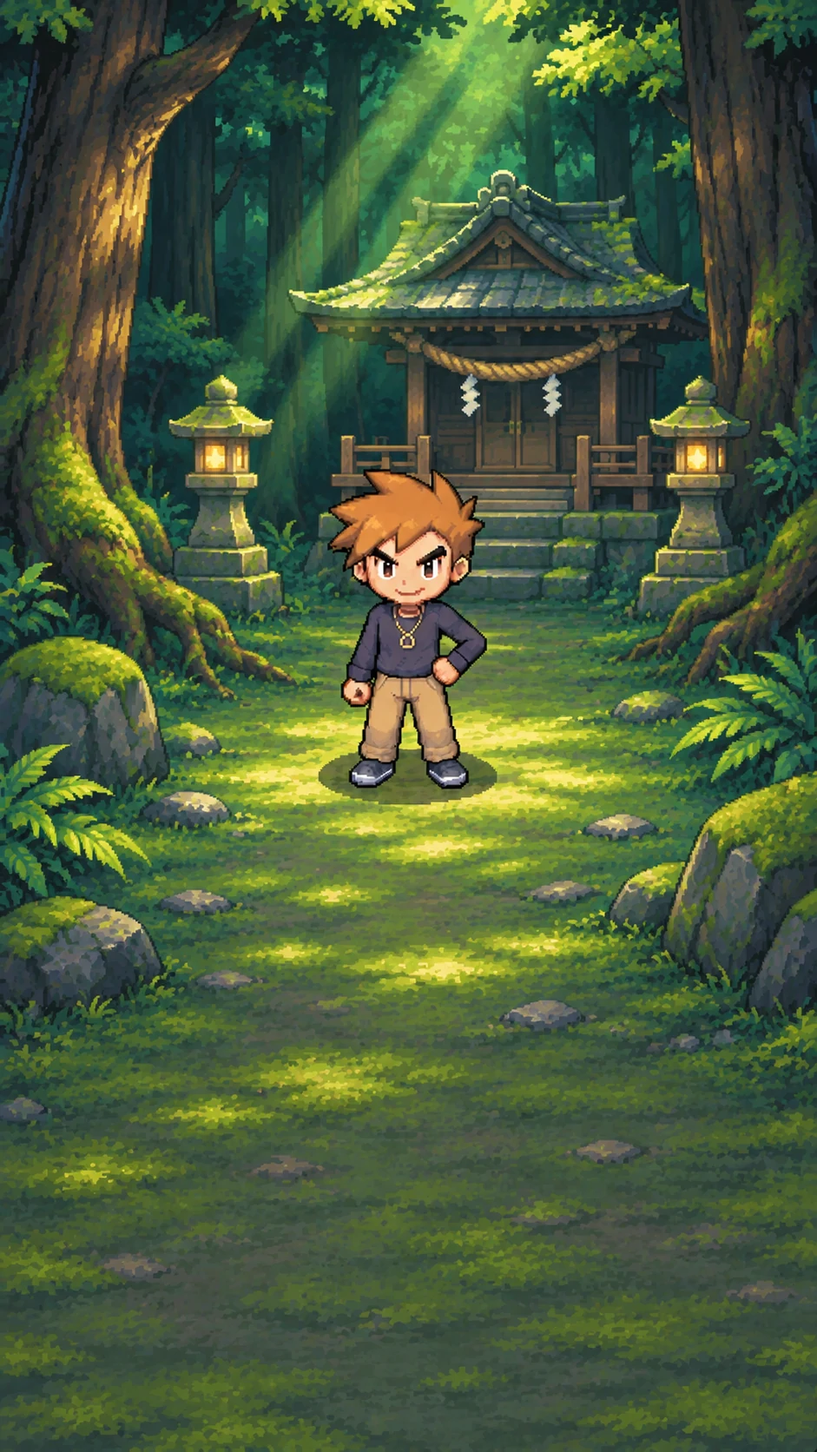
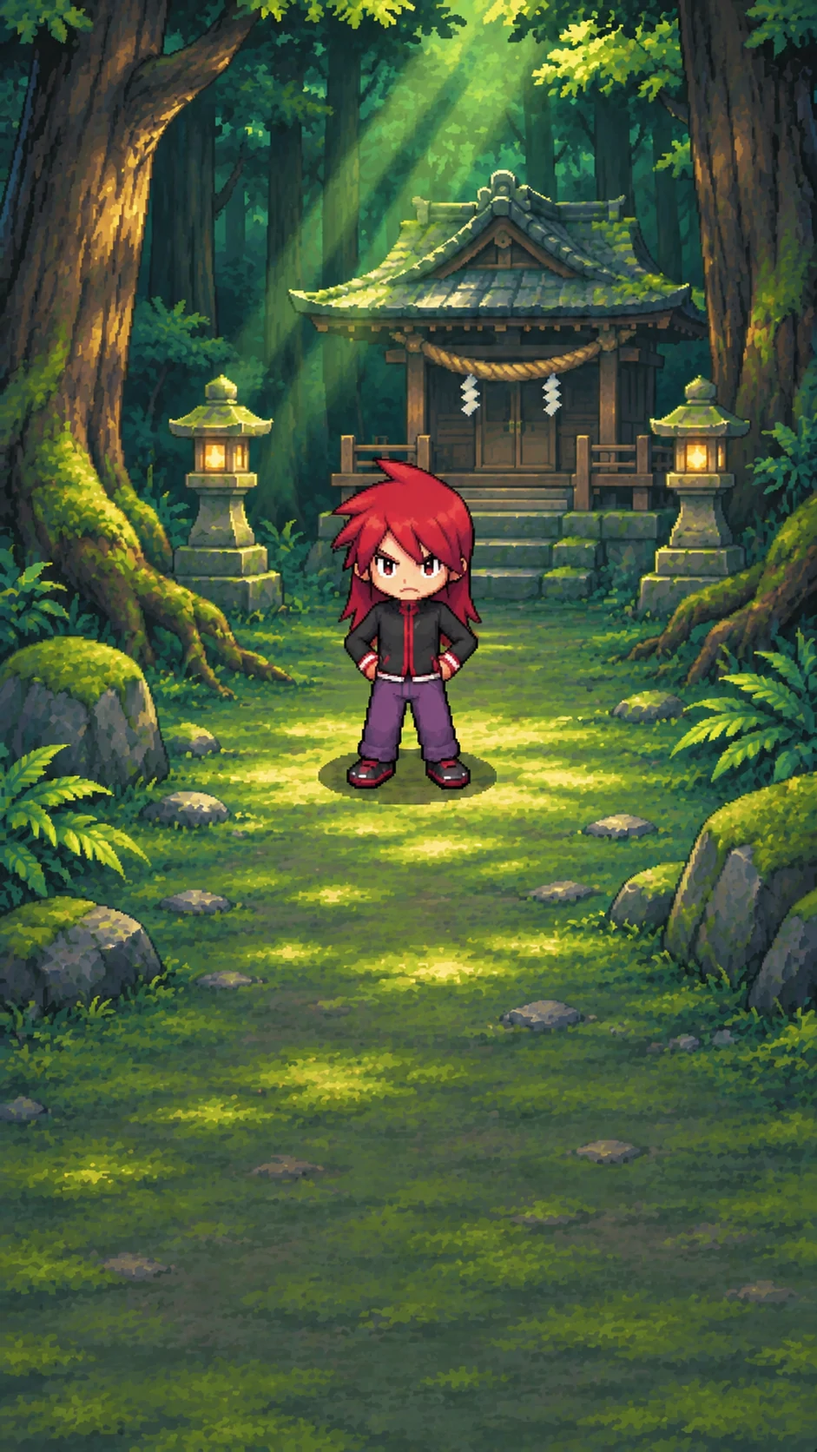
Un rival par région : Silver à Johto, avec sa voix et ses 4 images ; Régis reste à Kanto

diff --git a/pokemon_ui.html b/pokemon_ui.html
@@ -2987,7 +2987,7 @@ function scenePokedex() {
     fermer();
   })().catch(() => {});
 }
-// --- Régis, le rival (Kiki, 05/11 : détestable) : 4 rencontres par région, une fois chacune, en atteignant le lieu. Le texte vient de rival.py, avec les pires chiffres de la semaine.
+// --- Le rival (Kiki, 05/11 : un par région, chacun sa voix, tous moqueurs) : 4 rencontres par région, une fois chacune, en atteignant le lieu. Le texte vient de rival.py, avec les pires chiffres de la semaine.
 const rivalVu = r => { try { return localStorage.getItem(`pkm_rival_${R.partie}_${r.image}`) === "1"; } catch (e) { return true; } };
 function rivalDu() {  // la dernière rencontre atteinte, pas encore vue ; celles d'avant sont passées (on ne les enchaîne pas)
   const l = (D.rival || []).filter(r => r.lignes && r.dist <= V.pos && !rivalVu(r));
@@ -2997,7 +2997,7 @@ function rivalDu() {  // la dernière rencontre atteinte, pas encore vue ; celle
 function sceneRival(r, essai = false) {
   if (!essai) try { localStorage.setItem(`pkm_rival_${R.partie}_${r.image}`, "1"); } catch (e) {}
   preparerScene();
-  const {v, fin: finE} = ecran("pkm-rival", `${r.image}.webp`, 941, 1672, ""), DR = dialogue(v), qui = "Régis";
+  const {v, fin: finE} = ecran("pkm-rival", `${r.image}.webp`, 941, 1672, ""), DR = dialogue(v), qui = r.nom || "Régis";
   const lignes = (r.lignes || ["Pas assez de jours pour me moquer de toi. Reviens quand ta montre aura quelque chose à raconter."]).map(l => l.replace("{nom}", nomDresseur()));
   DR.prevoir(lignes.map(l => [l, qui]));
   let fini = false;
@@ -5581,7 +5581,7 @@ function dessinerTests() {
   document.getElementById("tests").innerHTML = `
     <div class="groupe">Le passage vers Johto<small>Le Carnet, le générique et l'appel du Professeur Chen ; puis, le lendemain, le voyage, le titre de Johto et le labo d'Orme. Rien n'est enregistré.</small></div>
     <div class="boutons-t">${b("t-passage", `${ico("tele", "p")} La fin de Kanto`)}${b("t-voyage-r", `${ico("carte", "p")} L'arrivée à Johto`)}${b("t-johto", `${ico("carte", "p")} ${EN_JOHTO ? "Revenir à la vraie partie" : "Voir Johto (champions, carte, décors)"}`)}</div>
-    <div class="groupe">Régis, le rival<small>Ses 4 rencontres de la région, avec tes vrais chiffres de la semaine.</small></div>
+    <div class="groupe">Le rival de la région<small>Ses 4 rencontres de la région, avec tes vrais chiffres de la semaine.</small></div>
     <div class="boutons-t">${(D.rival || []).map((r, i) => b(`t-rival" data-i="${i}`, r.lieu)).join("")}</div>
     <div class="groupe">Les petites scènes<small>Entrées d'arène, sanctuaires, histoires, anniversaire : aperçus, sans rien d'enregistré.</small></div>
     <div class="boutons-t">${[1, 2, 3, 4, 5, 6, 7, 8, 9].map(n => b(`t-entree" data-n="${n}`, `Entrée : ${n === 9 ? "Ligue" : CHAMPIONS[n].nom}`)).join("")}</div>

diff --git a/rival.py b/rival.py
@@ -1,8 +1,10 @@
-"""Régis, le rival : détestable, voulu par Kiki (05/11, trois potes de 40 ans). Il croise le joueur 4 fois par région et met le doigt sur ses chiffres
-les moins flatteurs de la semaine. Montré au joueur concerné seulement ; jamais le poids. Ni jeu ni points ici : que du texte, calculé sur les derniers jours
-(`etat["derniers"]`). Un jour sans pas = montre oubliée : il ne compte pas, on ne se moque pas d'une panne. Pas de vanne sur le sport tant que le joueur n'a
-jamais eu une seule minute de sport : sa montre ne les mesure peut-être pas (Kiki, 05/11). Cœur et masse grasse (Kiki, 05/11) : des repères pour rire, pas un diagnostic ;
-la masse grasse ne se juge qu'avec l'âge et le sexe du téléphone, sinon seulement sa hausse ; jamais le poids."""
+"""Le rival : un par région (Kiki, 05/11), le vrai rival de la génération, avec sa personnalité des jeux ; toujours moqueur (trois potes de 40 ans). Il croise le joueur 4 fois
+par région et met le doigt sur ses chiffres les moins flatteurs de la semaine. Montré au joueur concerné seulement ; jamais le poids. Ni jeu ni points ici : que du texte,
+calculé sur les derniers jours (`etat["derniers"]`). Un jour sans pas = montre oubliée : il ne compte pas, on ne se moque pas d'une panne. Pas de vanne sur le sport tant que
+le joueur n'a jamais eu une seule minute de sport : sa montre ne les mesure peut-être pas (Kiki, 05/11). Cœur et masse grasse (Kiki, 05/11) : des repères pour rire, pas un
+diagnostic ; la masse grasse ne se juge qu'avec l'âge et le sexe du téléphone, sinon seulement sa hausse ; jamais le poids.
+Régis (Kanto) : le moqueur de base. Silver (Johto) : roux, sombre, agressif, ne pense qu'à la puissance et à la victoire, ne plaisante jamais ; a volé son Pokémon chez Orme ;
+fils de Giovanni, dit seulement à la dernière rencontre. Une région sans voix ici n'a pas encore été construite (Flora, à Hoenn : amicale, moquerie gentille)."""
 import datetime as dt
 import random
 
@@ -11,18 +13,66 @@ import chiffres
 import regions
 
 JOURS = ["lundi", "mardi", "mercredi", "jeudi", "vendredi", "samedi", "dimanche"]
-ACCROCHES = {
-    "rival-k1-route": "Tiens, {nom}. Moi, c'est Régis. Je voulais voir à quoi ressemble quelqu'un qui marche aussi peu.",
-    "rival-k2-pont": "Personne ne passe sur ce pont sans que je lui lise ses chiffres. J'ai les tiens. Accroche-toi à la rambarde.",
-    "rival-k3-navire": "Je pars en croisière, moi. Toi, c'est un canot de sauvetage qu'il te faudrait. J'ai regardé ta semaine.",
-    "rival-k4-victoire": "Tu comptes vraiment aller à la Ligue ? Avec ces chiffres-là ?",
-    "rival-j1-mauville": "{nom} ! Tu en as mis, du temps. Ta montre m'a tout raconté.",
-    "rival-j2-bois": "Perdu dans les bois ? Normal : à ton rythme, même les Chenipan te doublent.",
-    "rival-j3-rosalia": "Ici, on vénère les anciens. Ça tombe bien, je pensais justement à toi.",
-    "rival-j4-antre": "Je t'attendais plus tôt. J'ai eu le temps de lire ta semaine : ça n'a pas été long.",
+VOIX = {
+    "k": {
+        "nom": "Régis",
+        "accroches": {
+            "rival-k1-route": "Tiens, {nom}. Moi, c'est Régis. Je voulais voir à quoi ressemble quelqu'un qui marche aussi peu.",
+            "rival-k2-pont": "Personne ne passe sur ce pont sans que je lui lise ses chiffres. J'ai les tiens. Accroche-toi à la rambarde.",
+            "rival-k3-navire": "Je pars en croisière, moi. Toi, c'est un canot de sauvetage qu'il te faudrait. J'ai regardé ta semaine.",
+            "rival-k4-victoire": "Tu comptes vraiment aller à la Ligue ? Avec ces chiffres-là ?",
+        },
+        "sorties": ["Allez, file. Je te garde une place, derrière moi.", "Ne me remercie pas. Remercie plutôt ton canapé, il a enfin de la compagnie.",
+                    "Bon, j'y vais. Moi, j'ai des choses à faire. En marchant.", "Essaie de faire mieux. Enfin, essaie de faire quelque chose."],
+        "vante": "Moi, ma journée de repos, c'est {lui} pas.",
+        "textes": {
+            "pire": ["{Jour} : {pas} pas. Même ton facteur en fait plus rien que pour aller à ta boîte aux lettres.", "{pas} pas, {jour}. Tu t'es levé, au moins, ou c'est ta montre qui est tombée du lit ?"],
+            "moyenne": ["{moy} pas par jour en moyenne. Mon Ronflex fait mieux en dormant.", "{moy} pas de moyenne. Tu marches, ou tu fais juste le tour du canapé ?"],
+            "baisse": ["{baisse} % de pas en moins que la semaine d'avant. Continue, tu finiras bien par atteindre zéro.", "La semaine d'avant, tu marchais {baisse} % de plus. C'était le bon temps, hein, papy ?"],
+            "sport0": ["Zéro minute de sport en {n} jours. Même pas par accident. Chapeau.", "{n} jours, zéro minute de sport. Ton cœur doit se demander si tu es encore là."],
+            "sport": ["{sport} minutes de sport en {n} jours. C'était quoi, courir après le bus ?", "{sans} jours sans une seule minute de sport sur {n}. Et les autres jours, tu as couru après quoi, le bus ?"],
+            "sommeil": ["{nuit} de sommeil en moyenne. Et après, tu t'étonnes d'avoir cette tête.", "Ta nuit la plus courte : {courte}. Je ne te dis pas comme ça se voit."],
+            "coeur": ["{fc} battements par minute au repos. Au repos ! Ton cœur a 70 ans, et il aimerait bien s'asseoir.", "{fc} au repos. J'ai vu des grands-pères plus détendus en montant un escalier."],
+            "vfc": ["Récupération : {vfc} ms. Sur ta montre, tu as un cœur de 70 ans. Tu veux que je t'aide à traverser ?"],
+            "gras": ["{gras} % de masse grasse. Tu stockes pour l'hiver, ou tu comptes hiberner avec Ronflex ?", "{gras} % de masse grasse d'après ta balance. Elle a dû te dire ça avec tact. Pas moi."],
+            "hausse": ["+{hausse} point de masse grasse en deux semaines. Enfin quelque chose qui progresse chez toi."],
+            "muscu": ["Zéro pompe, zéro traction, zéro squat de la semaine. Tes bras, ils servent à porter la télécommande ?"],
+            "fort": ["{moy} pas de moyenne, bravo. Tu fuis quelqu'un, ou c'est que personne ne t'attend à la maison ?", "{moy} pas par jour. Pas mal, pour ton âge."],
+        },
+    },
+    "j": {
+        "nom": "Silver",
+        "accroches": {
+            "rival-j1-mauville": "Toi, {nom}. Je m'appelle Silver. Mon Pokémon, je l'ai pris chez Orme sans demander. Le tien, tu ne le mérites pas. J'ai vu ta semaine.",
+            "rival-j2-bois": "Tu traînes dans les bois ? Ici, les faibles se perdent. Et personne ne vient les chercher.",
+            "rival-j3-rosalia": "Les gens d'ici prient les anciens. Moi, je ne crois qu'à la puissance. Et toi, tu n'en as aucune.",
+            "rival-j4-antre": ["Tu arrives encore à marcher jusqu'ici ? J'ai lu ta semaine.",
+                               "Giovanni, le chef de la Team Rocket, c'est mon père. Il a perdu une fois, et il a tout abandonné. Je ne serai jamais comme lui. Ni comme toi."],
+        },
+        "sorties": ["Dégage. Tu me fais perdre mon temps.", "La prochaine fois, montre-moi au moins quelque chose.",
+                    "Ne te retourne pas. Personne ne t'attend.", "Reviens quand tu auras de la force. Donc, ne reviens pas."],
+        "vante": "Moi, les jours où je me repose, c'est {lui} pas. Et je déteste me reposer.",
+        "textes": {
+            "pire": ["{Jour} : {pas} pas. Même pas assez pour qu'on te remarque.", "{pas} pas, {jour}. Un Pokémon sauvage aurait pitié de toi. Pas moi."],
+            "moyenne": ["{moy} pas par jour. C'est ça, ta force ? Je déteste perdre mon temps.", "{moy} pas de moyenne. Les gens comme toi restent en bas. Et c'est très bien."],
+            "baisse": ["{baisse} % de pas en moins qu'avant. Tu recules. Les faibles reculent toujours.", "{baisse} % de moins en une semaine. Tu abandonnes déjà ? Je m'en doutais."],
+            "sport0": ["Zéro minute de sport en {n} jours. Aucune volonté. C'est tout ce que je vois.", "{n} jours sans une minute de sport. Et tu crois que tu vas me battre ?"],
+            "sport": ["{sport} minutes de sport en {n} jours. Mes Pokémon en font plus avant de se réveiller.", "{sans} jours sans sport sur {n}. La puissance ne vient pas toute seule. Mais ça, tu ne le sauras jamais."],
+            "sommeil": ["{nuit} de sommeil en moyenne. Même dormir, tu le fais mal.", "Ta nuit la plus courte : {courte}. Tu tiens à peine debout. Reste à terre."],
+            "coeur": ["{fc} battements par minute au repos. Ton cœur a 70 ans. Il a compris avant toi que c'était fini.", "{fc} au repos. Ton cœur s'affole sans rien faire. Pathétique."],
+            "vfc": ["Récupération : {vfc} ms. Un cœur de 70 ans. Tu n'iras nulle part avec ça."],
+            "gras": ["{gras} % de masse grasse. Tu t'entraînes à quoi, à stocker ?", "{gras} % de masse grasse. Et tu oses te dire dresseur."],
+            "hausse": ["+{hausse} point de masse grasse en deux semaines. Voilà enfin quelque chose qui grandit chez toi. Minable."],
+            "muscu": ["Zéro pompe, zéro traction, zéro squat. Tes bras ne te servent à rien. Comme le reste."],
+            "fort": ["{moy} pas de moyenne. Et alors ? Ça ne changera rien. Je te battrai.", "{moy} pas par jour. Tu crois que ça m'impressionne ?"],
+        },
+    },
 }
-SORTIES = ["Allez, file. Je te garde une place, derrière moi.", "Ne me remercie pas. Remercie plutôt ton canapé, il a enfin de la compagnie.",
-           "Bon, j'y vais. Moi, j'ai des choses à faire. En marchant.", "Essaie de faire mieux. Enfin, essaie de faire quelque chose."]
+
+
+def voix(image):
+    """La voix du rival de cette image : la lettre de région de son nom (rival-k1-…, rival-j1-…)."""
+    return VOIX[image.split("-")[1][0]]
 
 
 def _duree(minutes):
@@ -30,68 +80,62 @@ def _duree(minutes):
 
 
 def _candidats(semaine, avant, sport_vu=True, gras_haut=None, gras=()):
-    """[(à quel point c'est peu flatteur, clé, textes possibles)], à partir de la semaine écoulée."""
+    """[(à quel point c'est peu flatteur, clé, clé du texte, valeurs du texte)], à partir de la semaine écoulée."""
     n, nb = len(semaine), chiffres.nombre
     pas = [j["pas"] for j in semaine]
     moy, pire = sum(pas) / n, min(semaine, key=lambda j: j["pas"])
     jour = JOURS[dt.date.fromisoformat(pire["jour"]).weekday()]
     out = []
     if pire["pas"] < 5000:
-        out.append((1 - pire["pas"] / 5000, "pire", [f"{jour.capitalize()} : {nb(pire['pas'])} pas. Même ton facteur en fait plus rien que pour aller à ta boîte aux lettres.",
-                                                     f"{nb(pire['pas'])} pas, {jour}. Tu t'es levé, au moins, ou c'est ta montre qui est tombée du lit ?"]))
+        out.append((1 - pire["pas"] / 5000, "pire", "pire", {"Jour": jour.capitalize(), "jour": jour, "pas": nb(pire["pas"])}))
     if moy < 7000:
-        out.append(((7000 - moy) / 7000, "moyenne", [f"{nb(moy)} pas par jour en moyenne. Mon Ronflex fait mieux en dormant.",
-                                                     f"{nb(moy)} pas de moyenne. Tu marches, ou tu fais juste le tour du canapé ?"]))
+        out.append(((7000 - moy) / 7000, "moyenne", "moyenne", {"moy": nb(moy)}))
     if len(avant) >= 3:
         ancien = sum(j["pas"] for j in avant) / len(avant)
         if ancien and moy < ancien * .9:
             baisse = round((1 - moy / ancien) * 100)
-            out.append((baisse / 40, "baisse", [f"{baisse} % de pas en moins que la semaine d'avant. Continue, tu finiras bien par atteindre zéro.",
-                                                f"La semaine d'avant, tu marchais {baisse} % de plus. C'était le bon temps, hein, papy ?"]))
+            out.append((baisse / 40, "baisse", "baisse", {"baisse": baisse}))
     sport, sans = sum(j["zone"] for j in semaine), sum(not j["zone"] for j in semaine)
     if not sport_vu:
         pass
     elif sport == 0:
-        out.append((.9, "sport", [f"Zéro minute de sport en {n} jours. Même pas par accident. Chapeau.", f"{n} jours, zéro minute de sport. Ton cœur doit se demander si tu es encore là."]))
+        out.append((.9, "sport", "sport0", {"n": n}))
     elif sport < 50:
-        out.append((1 - sport / 50, "sport", [f"{nb(sport)} minutes de sport en {n} jours. C'était quoi, courir après le bus ?",
-                                              f"{sans} jours sans une seule minute de sport sur {n}. Et les autres jours, tu as couru après quoi, le bus ?"]))
+        out.append((1 - sport / 50, "sport", "sport", {"sport": nb(sport), "sans": sans, "n": n}))
     nuits = [j["sommeil"] for j in semaine if j["sommeil"]]
     if len(nuits) >= 3 and sum(nuits) / len(nuits) < 420:
         m = sum(nuits) / len(nuits)
-        out.append(((420 - m) / 120, "sommeil", [f"{_duree(m)} de sommeil en moyenne. Et après, tu t'étonnes d'avoir cette tête.",
-                                                 f"Ta nuit la plus courte : {_duree(min(nuits))}. Je ne te dis pas comme ça se voit."]))
+        out.append(((420 - m) / 120, "sommeil", "sommeil", {"nuit": _duree(m), "courte": _duree(min(nuits))}))
     repos = [j["fc_repos"] for j in semaine if j.get("fc_repos")]
     if len(repos) >= 3 and sum(repos) / len(repos) >= 70:
         fc = sum(repos) / len(repos)
-        out.append((min((fc - 66) / 16, 1), "coeur", [f"{nb(fc)} battements par minute au repos. Au repos ! Ton cœur a 70 ans, et il aimerait bien s'asseoir.",
-                                                      f"{nb(fc)} au repos. J'ai vu des grands-pères plus détendus en montant un escalier."]))
+        out.append((min((fc - 66) / 16, 1), "coeur", "coeur", {"fc": nb(fc)}))
     vfc = [j["vfc"] for j in semaine if j.get("vfc")]
     if len(vfc) >= 3 and sum(vfc) / len(vfc) <= 28:
         v = sum(vfc) / len(vfc)
-        out.append((min((32 - v) / 16, 1), "vfc", [f"Récupération : {nb(v)} ms. Sur ta montre, tu as un cœur de 70 ans. Tu veux que je t'aide à traverser ?"]))
+        out.append((min((32 - v) / 16, 1), "vfc", "vfc", {"vfc": nb(v)}))
     if gras:
         recent = sum(gras[-3:]) / len(gras[-3:])
         txt = str(round(recent, 1)).replace(".", ",")
         if gras_haut and recent > gras_haut:
-            out.append((min((recent - gras_haut) / 8 + .3, 1), "gras", [f"{txt} % de masse grasse. Tu stockes pour l'hiver, ou tu comptes hiberner avec Ronflex ?",
-                                                                       f"{txt} % de masse grasse d'après ta balance. Elle a dû te dire ça avec tact. Pas moi."]))
+            out.append((min((recent - gras_haut) / 8 + .3, 1), "gras", "gras", {"gras": txt}))
         if len(gras) >= 3 and gras[-1] - gras[0] >= 1:
             hausse = str(round(gras[-1] - gras[0], 1)).replace(".", ",")
-            out.append((min((gras[-1] - gras[0]) / 3 + .2, 1), "gras", [f"+{hausse} point de masse grasse en deux semaines. Enfin quelque chose qui progresse chez toi."]))
+            out.append((min((gras[-1] - gras[0]) / 3 + .2, 1), "gras", "hausse", {"hausse": hausse}))
     if not sum(j["pompes"] + j["tractions"] + j["squats"] for j in semaine):
-        out.append((.4, "muscu", ["Zéro pompe, zéro traction, zéro squat de la semaine. Tes bras, ils servent à porter la télécommande ?"]))
+        out.append((.4, "muscu", "muscu", {}))
     if not out or max(c[0] for c in out) < .05:
-        out.append((.05, "fort", [f"{nb(moy)} pas de moyenne, bravo. Tu fuis quelqu'un, ou c'est que personne ne t'attend à la maison ?", f"{nb(moy)} pas par jour. Pas mal, pour ton âge."]))
+        out.append((.05, "fort", "fort", {"moy": nb(moy)}))
     return out
 
 
 def repliques(derniers, aujourd, image, sport_vu=True, gras_haut=None):
-    """Ce que Régis dit pour cette rencontre : [accroche, 2 piques, vantardise, sortie], ou None s'il manque des jours pour se moquer."""
+    """Ce que le rival dit pour cette rencontre : [accroche(s), 2 piques, vantardise, sortie], ou None s'il manque des jours pour se moquer."""
     jours = [j for j in derniers if j["jour"] < str(aujourd) and j["pas"] > 0]
     semaine, avant = jours[-7:], jours[-14:-7]
     if len(semaine) < 3:
         return None
+    v = voix(image)
     rng = random.Random(f"{aujourd}#{image}")
     gras = [j["gras"] for j in jours[-14:] if j.get("gras")]
     pires, vus = [], set()
@@ -100,7 +144,9 @@ def repliques(derniers, aujourd, image, sport_vu=True, gras_haut=None):
             vus.add(c[1])
             pires.append(c)
     lui = max(max(j["pas"] for j in semaine) * 1.1, 6000)
-    return [ACCROCHES[image], *[rng.choice(c[2]) for c in pires], f"Moi, ma journée de repos, c'est {chiffres.nombre(round(lui, -2))} pas.", rng.choice(SORTIES)]
+    accroche = v["accroches"][image]
+    accroche = accroche if isinstance(accroche, list) else [accroche]
+    return [*accroche, *[rng.choice(v["textes"][c[2]]).format(**c[3]) for c in pires], v["vante"].format(lui=chiffres.nombre(round(lui, -2))), rng.choice(v["sorties"])]
 
 
 def pour_ecran(etat, aujourd, profil=None):
@@ -108,4 +154,4 @@ def pour_ecran(etat, aujourd, profil=None):
     r = regions.REGIONS[etat["region"]["index"]]
     dist = {l["nom"]: d for l, d in zip(r.lieux, r.dist)}
     rep = bilan.repere_gras((profil or {}).get("age"), (profil or {}).get("sexe"))
-    return [{"image": image, "dist": dist[lieu], "lieu": lieu, "lignes": repliques(etat.get("derniers") or [], aujourd, image, etat.get("sport_vu", False), rep[1] if rep else None)} for lieu, image in r.rival.items()]
+    return [{"image": image, "nom": voix(image)["nom"], "dist": dist[lieu], "lieu": lieu, "lignes": repliques(etat.get("derniers") or [], aujourd, image, etat.get("sport_vu", False), rep[1] if rep else None)} for lieu, image in r.rival.items()]

diff --git a/tests/test_regles.py b/tests/test_regles.py
@@ -643,6 +643,23 @@ class Rival(unittest.TestCase):
             x["gras"] = 20 + k / 3
         self.assertIn("masse grasse", " ".join(rival.repliques(d, jour(30), "rival-k1-route", True, None)))  # sa hausse, oui
 
+    def test_silver_a_sa_voix_a_johto(self):
+        import rival
+        for image in ("rival-j1-mauville", "rival-j2-bois", "rival-j3-rosalia", "rival-j4-antre"):
+            for d in (self.jours(7, zone=0, pas=2000, sommeil=300), self.jours(7, pas=20000, zone=60), self.jours(7, fc_repos=78, vfc=20, zone=10, gras=30.0)):
+                t = " ".join(rival.repliques(d, jour(30), image, True, 24))
+                self.assertNotIn("Régis", t)
+                self.assertNotIn("{", t.replace("{nom}", ""))  # {nom} : remplacé par le téléphone
+                self.assertEqual(rival.voix(image)["nom"], "Silver")
+        self.assertEqual(rival.voix("rival-k1-route")["nom"], "Régis")
+        giovanni = [i for i in rival.VOIX["j"]["accroches"] if "Giovanni" in str(rival.VOIX["j"]["accroches"][i])]
+        self.assertEqual(giovanni, ["rival-j4-antre"])  # dit seulement à la dernière rencontre
+
+    def test_tous_les_rivaux_ont_tous_leurs_textes(self):
+        import rival
+        for v in rival.VOIX.values():
+            self.assertEqual(set(v["textes"]), set(rival.VOIX["k"]["textes"]))
+
     def test_chaque_region_a_quatre_rencontres(self):
         import regions
         for r in regions.REGIONS:

diff --git a/region.py b/region.py
@@ -77,7 +77,7 @@ class Region:
         self.arenes = [i for i, lieu in enumerate(self.lieux) if lieu["arene"]]  # la dernière = la Ligue
         self.variante = variante  # variante(graine) -> les Pokémon de chaque lieu pour ce joueur : tout le monde n'a pas exactement les mêmes
         self.arene_max = arene_max  # après tant de jours actifs à une arène, le champion laisse passer
-        self.rival = {}  # lieu -> image de la rencontre avec Régis (rival.py)
+        self.rival = {}  # lieu -> image de la rencontre avec le rival de la région (rival.py)
         self.especes = set(numeros_) - set(legendaires) - set(reportes)  # les Pokémon du diplôme ; reportes = gardés pour les régions suivantes, à étaler sur tout le jeu
         self.lieux_et_legendes = (set(numeros_) - set(reportes)) | {n + k for n in starters for k in range(3)}  # le starter et ses évolutions, même s'ils sortent des balls bien plus tard
         vus = [n for lieu in self.lieux for n in lieu["pokemon"]]

diff --git a/pokemon.py b/pokemon.py
@@ -540,7 +540,7 @@ def jouer(stats, resumes, aujourd, figees=(), missions_jours=None, fichiers_jour
     voyage = Voyage(region, graine_lieux)
     listes = {region.nom: voyage.especes()}  # les Pokémon de chaque région pour ce joueur
     sport_vu = False  # une minute de sport au moins depuis le début : sinon, la montre ne les mesure peut-être pas (rival.py)
-    derniers = []  # les 14 derniers jours, pour les moqueries de Régis (rival.py)
+    derniers = []  # les 14 derniers jours, pour les moqueries du rival (rival.py)
     carnet = nouveau_carnet()  # les chiffres du voyage dans la région en cours, pour le Carnet de fin de région
     jour, m, ok, shiny_bonus = debut, {}, False, 1
     relance, sans_objectif, pas_recents = None, 0, []  # la relance en cours ou la dernière ; les jours de suite sans objectif ; les pas des derniers jours avec des données

diff --git a/CLAUDE.md b/CLAUDE.md
@@ -33,7 +33,7 @@ Pokédex comparé + ce qu'il a et pas toi + ses dernières captures ; ce que les
 « 🔧 Suivi des amis » (`suivi_amis`, `amis.suivi` : dernière récolte, erreurs de Google par message, pas / sport / sommeil des 14 derniers jours).
 **Se tirer la bourre (03/11, Kiki)** : classement au nombre d'espèces, puis shiny (même rang si égalité sur les deux) ; chaque ligne : `Kanto · lieu` (`CARTE["region"]`), Pokédex · Shiny · Badges même à 0, écart avec toi, `+N cette semaine` (espèces nouvelles depuis lundi, jour où la ball a été gagnée) ; plus rien sur les amis dans Aventure (Kiki, 03/11 : moche, tout est dans Dresseur) ; **Les nouvelles** (`amis.nouvelles`, 14 jours, 12 par joueur, 10 affichées) : starter (« a obtenu X auprès du Professeur Chen »), badges, légendaires, shiny, évolution du starter, nouveau rare, lieux atteints, jamais les captures ordinaires. Une ball de plus de 14 jours compte comme ouverte aussi ici (liste partagée = 20 jours). Pas encore : bouton « Voir son Pokédex » complet, cadeau du lundi, objectifs adaptés à chacun, dresseurs en vol / surf sur la carte (toujours à pied), `Mon matériel`.
 **Plusieurs régions, Johto construit (04/11, carte blanche de Kiki sur les lieux et l'ordre).** `region.py` : `Region` et `Voyage` (règles communes), `kanto.py` et `johto.py` : les données, `regions.py` : la liste. `pokemon.jouer` : le téléphone laisse `…#geste-appel_1_<ms>` à la fin de l'appel du professeur (gardé dans gestes.json) ; la région suivante commence le lendemain à minuit : `cumul` à 0, sac vide, nouvelle `frise`, `carnet` à zéro (donc `poke1` revient : les identifiants restent uniques par le jour), cadeau `orme`. **Avant de toucher à ce moteur : comparer une partie avant / après** (rejeu de profils, 0 différence le 04/11, 32 parties). Rattrapage en région 2 : 25 % d'un Pokémon manquant des régions d'avant, à coup sûr après 8 balls sans (`rattrapage`, Kiki 29/10), et toujours avant le sac. Les légendaires manqués d'une région ne se rattrapent pas (après-jeu). **Johto** : 21 lieux, Ferme avant Rosalia et Jasmine (5e, `Badge Minéral`, image 14) avant Chuck (6e, image 13) pour suivre la carte ; sanctuaires Raikou (Rosalia), Lugia (Tourb'Îles), Entei (Mont Creuset), Suicune (Lac Colère), 5 jours d'exploit ; Ho-Oh à la Ligue, Celebi au diplôme (94 autres). Défis variés, pas de pompes partout (Kiki) : seuls Chuck, Koga et Aldo en acceptent. **Le jour et la nuit** (nouveauté de la région, `MOMENTS`, `moments_du_jour`) : 2 000 pas le matin ou après 20 h rendent ses Pokémon 3 fois plus fréquents ce jour-là (`pas_matin`, `pas_soir` de missions.json). **Écran** : `REG`, `EN_JOHTO`, `CADEAU` en haut du script ; `CHAMPIONS_KANTO/JOHTO`, `CONSEIL_…`, `DUELS` choisis par région ; fonds `j…`, salles `jarene1-8`, `laboOrme`. `ecran_pokemon` n'envoie au téléphone que les Pokémon des régions ouvertes (plus ce qu'un ami en avance a attrapé), la suite reste une surprise. **Passage** (`scenePassage`, `sceneVoyageRegion`, `PASSAGES`, décidé avec Kiki : `PASSAGE-REGIONS.md` du cerveau) : Carnet (lignes cachées si la montre ne les mesure pas, `D.carnet`), générique, dernier plan, appel ; le lendemain : aube, route, première vue, titre, labo. Bandeau « Ton téléphone sonne… » tant que l'appel n'est pas joué. **Aperçus** : 🧪 → La fin de Kanto, L'arrivée à Johto, Voir Johto (`?essais=1&johto=1`, `pokemon.apercu_region`, aucune capture, rien d'enregistré). **Images** : 64 images dans `scenes/` et `cartes/johto.webp` ; personnages détourés par Claude (contour sombre puis GrabCut d'OpenCV, fenêtre par personnage), salles vidées par recopie en miroir ligne par ligne. Texte de chaque image ChatGPT : cerveau (`COMBATS-JOHTO-PROMPTS.md`). **Pas encore** : la durée de Johto réglée sur le vrai rythme (après 4 semaines de vrai jeu), la montre, le professeur de la page Santé (reste Chen), les animations de l'orage et de la neige sur les décors de combat.
-**Le début du jeu et le vélo en images (05/11, Kiki)** : `demarrerAventure` -> `sceneDebut` (chambre sans lumière au sol ni tapis, à la demande de Kiki ; village, le dresseur à ses couleurs remonte le chemin ; « Attends ! » au bord des hautes herbes, ✕ saute jusqu'au labo) -> labo -> starter -> `scenePokedex` (après le cadeau `chen` seulement, écran mesuré sur l'image : vrais pas du jour, barre d'effort). `sceneVelo` : `velo-chen.webp` / `velo-orme.webp`. Essais : 🧪. 36 autres images de scènes (sanctuaires, histoire, entrées d'arène, anniversaire) : cerveau, `projets/sante/scenes-plus/`, pas encore branchées. **Régis, le rival (`rival.py`, `sceneRival`, `Region.rival` : 4 lieux par région, une fois chacun, `pkm_rival_<partie>_<image>`)** : détestable, voulu par Kiki (05/11, trois potes de 40 ans) : met le doigt sur les 2 chiffres les moins flatteurs de la semaine (`etat["derniers"]`), montrés au seul joueur concerné ; jamais le poids ; une montre oubliée ne compte pas ; il lui faut 3 jours ; pas de vanne sur le sport sans une première minute dans tout l'historique (`sport_vu`) ; cœur (repos ≥ 70, récupération ≤ 28 ms : « cœur de 70 ans », pour rire) et masse grasse (au-dessus du repère si âge et sexe sont sur le téléphone, sinon seulement sa hausse) demandés par Kiki. Ce ton ne vaut que pour lui.
+**Le début du jeu et le vélo en images (05/11, Kiki)** : `demarrerAventure` -> `sceneDebut` (chambre sans lumière au sol ni tapis, à la demande de Kiki ; village, le dresseur à ses couleurs remonte le chemin ; « Attends ! » au bord des hautes herbes, ✕ saute jusqu'au labo) -> labo -> starter -> `scenePokedex` (après le cadeau `chen` seulement, écran mesuré sur l'image : vrais pas du jour, barre d'effort). `sceneVelo` : `velo-chen.webp` / `velo-orme.webp`. Essais : 🧪. 36 autres images de scènes (sanctuaires, histoire, entrées d'arène, anniversaire) : cerveau, `projets/sante/scenes-plus/`, pas encore branchées. **Le rival, un par région (Kiki, 05/11 ; `rival.py`, `VOIX`, `sceneRival`, `Region.rival` : 4 lieux par région, une fois chacun, `pkm_rival_<partie>_<image>`)** : le vrai rival de la génération avec sa personnalité des jeux : Régis à Kanto, Silver à Johto (sombre, ne plaisante jamais, Giovanni dit à la dernière rencontre), Flora à prévoir à Hoenn (amicale, moquerie gentille) ; une pose différente à chaque image pour les suivants. Moqueur, voulu par Kiki (trois potes de 40 ans) : met le doigt sur les 2 chiffres les moins flatteurs de la semaine (`etat["derniers"]`), montrés au seul joueur concerné ; jamais le poids ; une montre oubliée ne compte pas ; il lui faut 3 jours ; pas de vanne sur le sport sans une première minute dans tout l'historique (`sport_vu`) ; cœur (repos ≥ 70, récupération ≤ 28 ms : « cœur de 70 ans », pour rire) et masse grasse (au-dessus du repère si âge et sexe sont sur le téléphone, sinon seulement sa hausse) demandés par Kiki. Ce ton ne vaut que pour lui.
 **Les petites scènes (05/11, idées validées par Kiki)** : `sceneRecit` (image, répliques, ✕). `sceneEntree` (champion de dos, `entree-*.webp`, puis de face, `pkm_entree_<partie>_<n>`, à la fin du voyage qui arrive à l'arène ; Ligue : reste de dos) ; `sceneSanctuaire` (`SANCT_TEXTE`, `sanct-*.webp`, avant la ball d'un légendaire de sanctuaire, de la Ligue ou du diplôme ; pas par chance) ; `HISTOIRES` (3 par région, à l'arrivée au lieu, une fois, la dernière seulement si plusieurs ; rien à gagner) ; `sceneAnniversaire`. Une par visite, après le vélo et le rival. Essais dans 🧪.
 **Plan de l'audit du 03/11 (validé par Kiki, en ligne le 04/11 ; rapport complet : dépôt privé kiki-cerveau, `projets/sante/AUDIT-2026-11-03.html`, jamais ici : il contient ses données de santé)** : la marche faisait tout le jeu (8 000 pas sans sport : Ligue en 132 j ; muscu presque chaque jour et 2 500 pas : 417 j). **Roue cachée** (`missions.tirer`, `familles_du`, `FAMILLES` : marche, cardio, pousser, tirer, jambes) : mission tirée dans la famille la moins travaillée sur 7 jours, jamais la même famille de force que la veille, jamais 3 jours de force de suite. Le programme « jambes le lundi, bras le mardi » de Kiki, invisible. Missions ajoutées (`materiel` : Kiki seul pour l'instant) : Scarabrute 5 tractions, Otaria 10 min de rameur, Mélofée 10 min de tapis de danse, Roucoups 20 min de vélo (`stats_jour` : `min_rameur`, `min_velo`, `min_danse` ; le type exact du tapis de danse sur la montre reste à vérifier : on cherche DANC ou « danse »). **Depuis le 04/11 (`equitable`)** : plafond muscu 40 points par jour (25 avant), 15 points de muscu = l'objectif du jour (`objectif_gestes`), première fois de la semaine pour chaque famille = +15 (`bonus_famille`), 4 familles = Super Ball `variete`, 4 jours d'objectif = Super Ball `hebdo`. Pompes et squats comptent pour les types (`gestes_pts`), bug corrigé : la muscu donne bien Combat et Acier. **Bilan de la semaine** (`sceneSemaine`, dimanche dès 18 h ou première visite d'après, coupable avec le récap du matin) et ligne « Ta semaine » dans Tes bonus. **Objectifs du jour remontés** (la ligne « Aujourd'hui » de l'audit les répétait : retirée, Kiki, 04/11) : carte, à ouvrir, barre, objectifs du jour, prochains objectifs, dernières captures. Rameur et tapis de danse : plus dans Muscu (Kiki, 04/11 : c'est la montre qui les compte), tuiles dans Santé les jours concernés. **Écran de fin de série** : la série part tout de suite (`garder`, seule la correction part ensuite) ; « Le téléphone a mal compté ? » lève la limite de correction. **Solidité** : GitHub en panne = dernières données connues, ou `ecran_panne` (`lire_depot`, `Panne`) ; récolte à l'ouverture en tâche de fond, 5 s d'attente au plus, puis bouton « Nouvelles données » (`lancer_recolte`, `suivi_recolte`) : jamais de rechargement tout seul (ball ou série en cours) ; bouton retour d'Android géré (`relierRetour`). **Outils cachés** : Tester Kanto, version de détection, apprentissage et envoi des séries avec `?essais=1` dans l'adresse, Kiki seul (`D.essais`). **Tests** : `python -m unittest discover tests` (`tests/test_regles.py`, aussi à chaque envoi sur GitHub). À faire au lancement (seulement quand Kiki le demande, date à venir) : remettre à zéro les records du téléphone (pkm_entr, trop de séries de test fausses), nouvelle partie (`REGLAGES` `debut` + `partie`, aussi pour les amis : l'identifiant de leurs balls change) puis retirer les anciennes règles datées. Plan du premier mois et d'avant le jour 90 : voir le rapport.
 **Calibrage (03/11, Kiki seul : ⚙ → 📊, `calibrage.py` + `ecran_calibrage.py`)** : par joueur et par jour, recalculé depuis les données brutes (survit à un reset) : pas, sport, séances, gestes, points par source, Super / Hyper et par quel chemin, mission, balls sorties. Taux par joueur, joueurs par jour, ratés de peu (≥ 80 % du seuil), missions, CSV. Aujourd'hui et les jours sans données ne comptent pas. Avant un reset : bouton « Garder une copie » (`data/calibrage/partie-N-date.json` : seules les balls sorties ne se recalculent pas). À lire aussi par Claude pour le bilan (`calibrage.journal`, dépôt privé). Dates possibles à partir du 01/11 (règle du sport différente avant).
